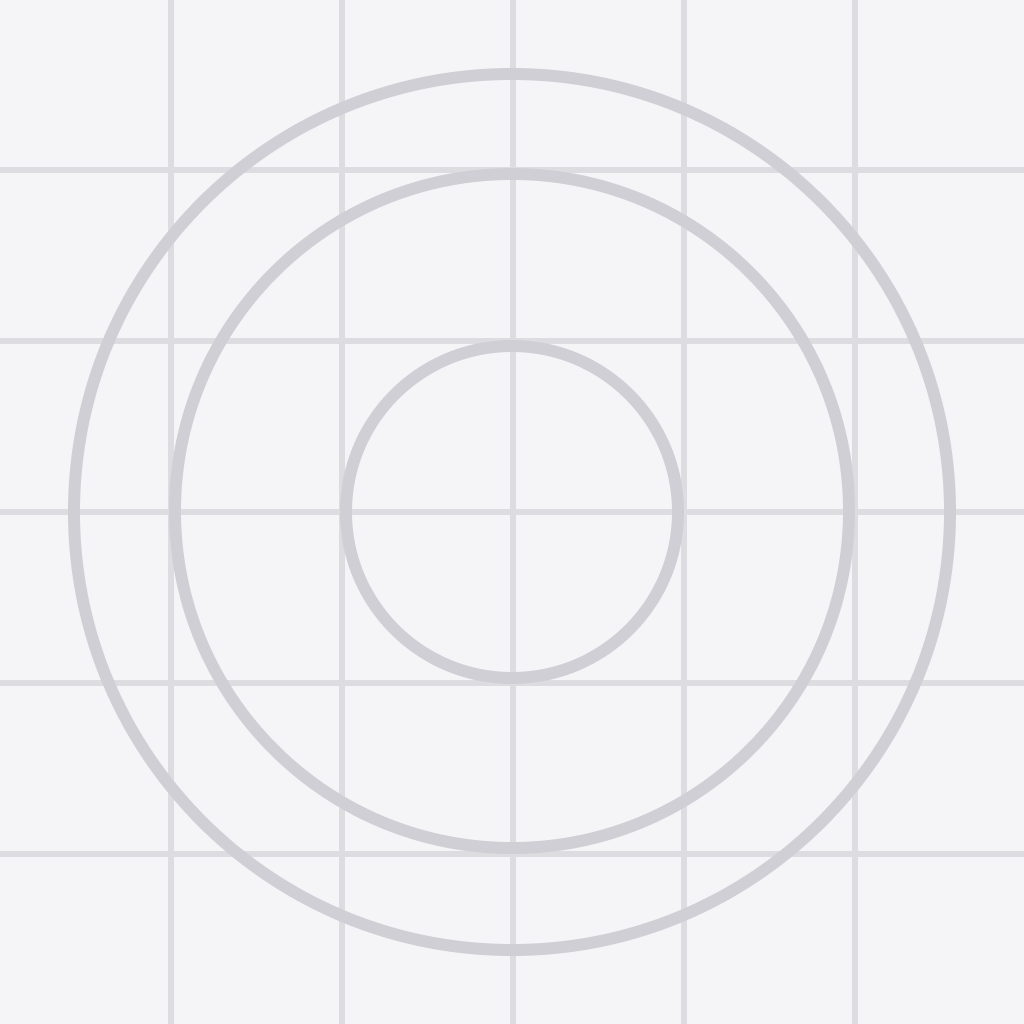
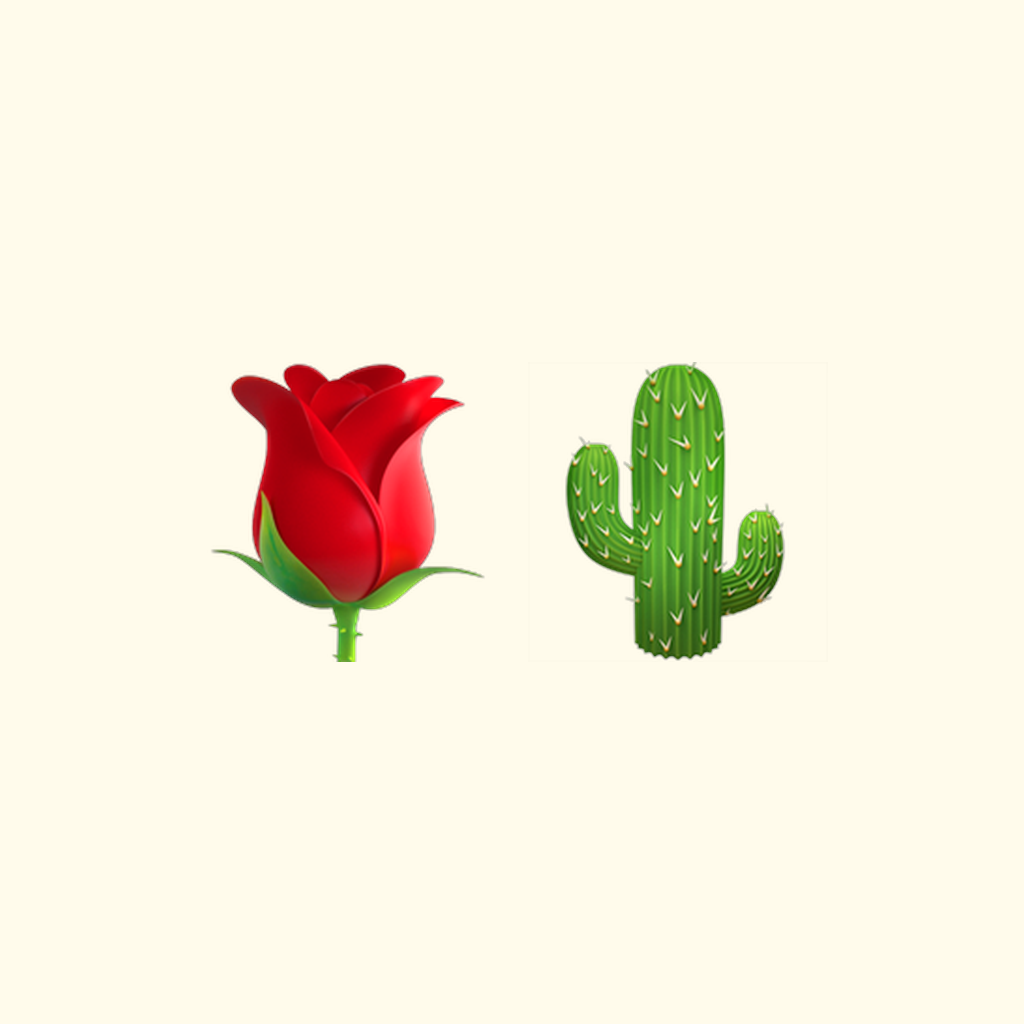
feat: enable Cloud AI BYO API key for production builds
Flip EXPO_PUBLIC_ENABLE_CLOUD_AI to true in production profile so users
can supply their own AI provider API key for image generation. Updates
feature flag docs and marks Play Console setup tasks complete.

diff --git a/lib/featureFlags.ts b/lib/featureFlags.ts
@@ -21,12 +21,11 @@
  * Whether Cloud AI image generation (FLUX.1 schnell via BYO API key) is
  * available in this build.
  *
- * - `false` in `production` profile (v1.0) — simplifies Data Safety declaration
- *   ("no data collected, no data shared").
- * - `true` in `development` and `preview` profiles so the feature remains
- *   testable during development.
- * - Will be flipped to `true` in the `production` profile for v1.1 once the
- *   Play Store listing has been updated with the Cloud AI Data Safety disclosure.
+ * - `true` in `production` profile (v1.1) — users can supply their own API key
+ *   for cloud-based image generation.
+ * - `true` in `development` and `preview` profiles for testing.
+ * - Requires Play Store Data Safety disclosure: data is sent to cloud providers
+ *   (fal.ai, Fireworks, Together AI, Replicate, WaveSpeed) for image generation.
  */
 export const ENABLE_CLOUD_AI: boolean =
   process.env.EXPO_PUBLIC_ENABLE_CLOUD_AI === 'true';

diff --git a/PLAN.md b/PLAN.md
@@ -129,8 +129,8 @@ Target: first public Android listing on Google Play. iOS/App Store can follow af
 - [x] Public privacy policy URL hosted over HTTPS and reachable from the Play Console
 - [ ] Production release candidate installed and smoke-tested from a Play internal test track
 - [x] Store listing assets generated locally and validated by strict preflight
-- [ ] Store listing assets uploaded to Play Console
-- [ ] Google Play Data Safety form completed and consistent with the production build
+- [x] Store listing assets uploaded to Play Console
+- [x] Google Play Data Safety form completed and consistent with the production build
 - [ ] Public release promoted from internal/closed testing after review
 
 ### Automated Release Gates
@@ -152,9 +152,9 @@ Target: first public Android listing on Google Play. iOS/App Store can follow af
 - [x] Configure EAS/Play service account credentials for `eas submit`.
 - [x] Create the first production signing credentials in EAS, if they do not already exist.
 - [x] Add required GitHub Actions secret: `EXPO_TOKEN`.
-- [ ] Add internal testers in Play Console.
-- [ ] Complete Play Console forms that cannot be fully automated: App access, Ads, Content rating, Target audience, Data Safety, and policy declarations.
-- [ ] Upload the first feature graphic and screenshot set to Play Console.
+- [x] Add internal testers in Play Console.
+- [x] Complete Play Console forms that cannot be fully automated: App access, Ads, Content rating, Target audience, Data Safety, and policy declarations.
+- [x] Upload the first feature graphic and screenshot set to Play Console.
 
 ### Store Listing Assets
 - [x] App name: `Rose & Thorn`
@@ -171,7 +171,7 @@ Target: first public Android listing on Google Play. iOS/App Store can follow af
 - [x] Host `docs/privacy.html` on a stable HTTPS URL: `https://thejohnstonsdotorg.github.io/roseandthorn/privacy.html`.
 - [x] Update privacy policy dates before submission.
 - [ ] Verify policy text matches the production build: Cloud AI is disabled in v1.0; on-device MediaPipe model download is opt-in; export leaves the device only by user action.
-- [ ] Complete Play Console Data Safety as: no developer-collected/shared data, no ads, no analytics, no location, no account creation, user-initiated export only.
+- [x] Complete Play Console Data Safety as: no developer-collected/shared data, no ads, no analytics, no location, no account creation, user-initiated export only.
 - [ ] Note local user-generated content exists on-device only: family/member names, Rose/Thorn text, prompts, artwork files, settings.
 - [ ] Select content rating accurately. Current policy says Everyone 13+; verify the Play questionnaire outcome and update policy/listing if Google assigns a different rating.
 - [ ] Declare no ads.
@@ -198,14 +198,14 @@ Target: first public Android listing on Google Play. iOS/App Store can follow af
 ### Play Console Steps
 - [x] Create or verify Google Play developer account.
 - [x] Create app: default language, app name, app/game = app, free/paid = free for v1.0.
-- [ ] Complete App access: no special access required.
-- [ ] Complete Ads: no ads.
-- [ ] Complete Content rating questionnaire.
-- [ ] Complete Target audience and content questionnaire.
-- [ ] Complete Data Safety with answers matching the privacy policy and production build.
-- [ ] Add privacy policy URL.
-- [ ] Add store listing copy and graphics.
-- [ ] Create internal test release and add testers.
+- [x] Complete App access: no special access required.
+- [x] Complete Ads: no ads.
+- [x] Complete Content rating questionnaire.
+- [x] Complete Target audience and content questionnaire.
+- [x] Complete Data Safety with answers matching the privacy policy and production build.
+- [x] Add privacy policy URL.
+- [x] Add store listing copy and graphics.
+- [x] Create internal test release and add testers.
 - [ ] Resolve all Play Console warnings or policy blocks.
 - [ ] Promote to closed/open testing if required by the account's Play testing policy, then promote to production when eligible.
 